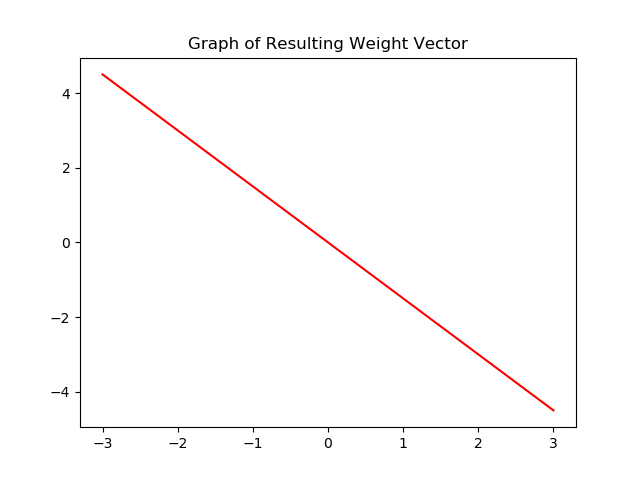
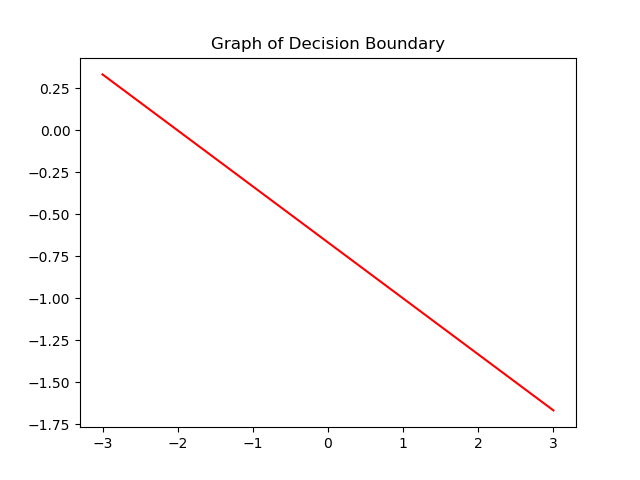
Correct perceptron_test() and graph

diff --git a/perceptron.py b/perceptron.py
@@ -1,5 +1,4 @@
 import numpy as np
-import matplotlib.pyplot as plt
 
 def calculate_activation(features, weights, bias):
     a = 0
@@ -14,8 +13,13 @@ def update_weight(weight, x, y):
 def update_bias(bias, y):
     return bias + y
 
-def epoch(X,Y,num_samples, weights, bias, redo_epoch):
-    return
+def prediction(activation):
+    prediction = 0
+
+    if   activation > 0: prediction = 1
+    elif activation < 0: prediction = -1
+    
+    return prediction
 
 def perceptron_train(X,Y):
     # Number of samples and features
@@ -29,9 +33,6 @@ def perceptron_train(X,Y):
     
     # Redo another epoch indicator
     redo_epoch = False
-
-    # Calculate weights and bias
-    #epoch(X,Y,num_samples, weights, bias, redo_epoch)
 
     for sample in range(num_samples):
         # Calculate activation and set current label
@@ -77,55 +78,31 @@ def perceptron_train(X,Y):
 
 
 def perceptron_test(X_test, Y_test, w, b):
+    # Initialize score (for accuracy calculation),
+    # number of features and weights, 
+    # and number of samples
     score = 0
     num_features_and_weights = X_test.shape[1]
     num_samples = Y_test.shape[0]
-    redo_epoch = False
-    max_iter = 2
-
-    '''
+    
+    # Iterate through all samples in dataset
     for i in range(num_samples):
         activation = 0
         
+        # Calculate the activation for each sample
         for j in range(num_features_and_weights):
             activation += w[j]*X_test[i][j]
         activation += b[0]
 
-        if activation == Y_test[i][0]:
+        # Make prediction
+        # If activation is less than 0, predict -1
+        # If activation is greater than 0, predict 1
+        # Otherwise, predict 0
+        # Update score if prediction and 
+        # current label match
+        if prediction(activation) == Y_test[i][0]:
             score += 1
-    '''
-    for i in range(num_samples):
-        activation = 0
-        
-        for j in range(num_features_and_weights):
-            activation += w[j]*X_test[i][j]
-        activation += b[0]
 
-        if activation == Y_test[i][0]:
-            score += 1
-        else:
-            for j in range(num_features_and_weights):
-                w[j] = update_weight(w[j], X_test[i][j], Y_test[i][0])
-            b[0] = update_bias(b[0], Y_test[i][0])
-            redo_epoch = True
-    '''
-    while (redo_epoch and max_iter > 0):
-        for i in range(num_samples):
-            activation = 0
-        
-            for j in range(num_features_and_weights):
-                activation += w[j]*X_test[i][j]
-            activation += b[0]
-
-            if activation == Y_test[i][0]:
-                score += 1
-            else:
-                for j in range(num_features_and_weights):
-                    w[j] = update_weight(w[j], X_test[i][j], Y_test[i][0])
-                b[0] = update_bias(b[0], Y_test[i][0])
-                redo_epoch = True
-        max_iter -= 1
-    '''
-
+    # Calculate and return accuracy
     accuracy = score/num_samples
     return accuracy

diff --git a/test.py b/test.py
@@ -1,4 +1,5 @@
 import numpy as np
+import matplotlib.pyplot as plt
 import perceptron as p
 
 # Hand-Tested Data
@@ -9,19 +10,11 @@ print("Hand-Tested Data    W1: ",W[0][0],"  W2: ",W[0][1],"  b:",W[1][0])
 test_acc = p.perceptron_test(X,Y,W[0],W[1])
 print("Accurancy:",test_acc,"\n")
 
-# Percepton Test Data 1
+# Percepton Test Data 
 X = np.array( [[0,1], [1,0], [5,4], [1,1], [3,3], [2,4], [1,6]] )
 Y = np.array( [[1], [1], [-1], [1], [-1], [-1], [-1]] )
 W = p.perceptron_train(X,Y)
-print("Hand-Tested Data    W1: ",W[0][0],"  W2: ",W[0][1],"  b:",W[1][0])
-test_acc = p.perceptron_test(X,Y,W[0],W[1])
-print("Accurancy:",test_acc,"\n")
-
-# Percepton Test Data 2
-X = np.array( [[0,1], [1,0], [5,4], [1,1], [3,3], [2,4], [1,6]])
-Y = np.array( [[1], [1], [-1], [1], [-1], [-1], [-1]] )
-W = p.perceptron_train(X,Y)
-print("Hand-Tested Data    W1: ",W[0][0],"  W2: ",W[0][1],"  b:",W[1][0])
+print("Preceptron Test Data 1    W1: ",W[0][0],"  W2: ",W[0][1],"  b:",W[1][0])
 test_acc = p.perceptron_test(X,Y,W[0],W[1])
 print("Accurancy:",test_acc,"\n")
 
@@ -29,21 +22,24 @@ print("Accurancy:",test_acc,"\n")
 X = np.array( [[-2,1], [1,1], [1.5,-0.5], [-2,-1], [-1,-1.5], [2,-2]] )
 Y = np.array( [[1], [1], [1], [-1], [-1], [-1]] )
 W = p.perceptron_train(X,Y)
-print("Hand-Tested Data    W1: ",W[0][0],"  W2: ",W[0][1],"  b:",W[1][0])
+print("Preceptron Test Data 2    W1: ",W[0][0],"  W2: ",W[0][1],"  b:",W[1][0])
 test_acc = p.perceptron_test(X,Y,W[0],W[1])
 print("Accurancy:",test_acc,"\n")
 
-'''
+
 # Graph weight vector
-#slope = -(b/w2)/(b/w1)  
-#intercept = -b/w2
+w1 = W[0][0]
+w2 = W[0][1]
+b  = W[1][0]
+
+slope = -(b/w2)/(b/w1)  
+intercept = -b/w2
 
 x = np.linspace(-3, 3, 10)
-y = (-3/2)*x + b
+y = slope*x + intercept
 
-plt.title('Graph of Resulting Weight Vector')
+plt.title('Graph of Decision Boundary')
 plt.plot(x, y, '-r', label='')
 
 plt.show(block=False)
 input('press <ENTER> to continue')
-'''
